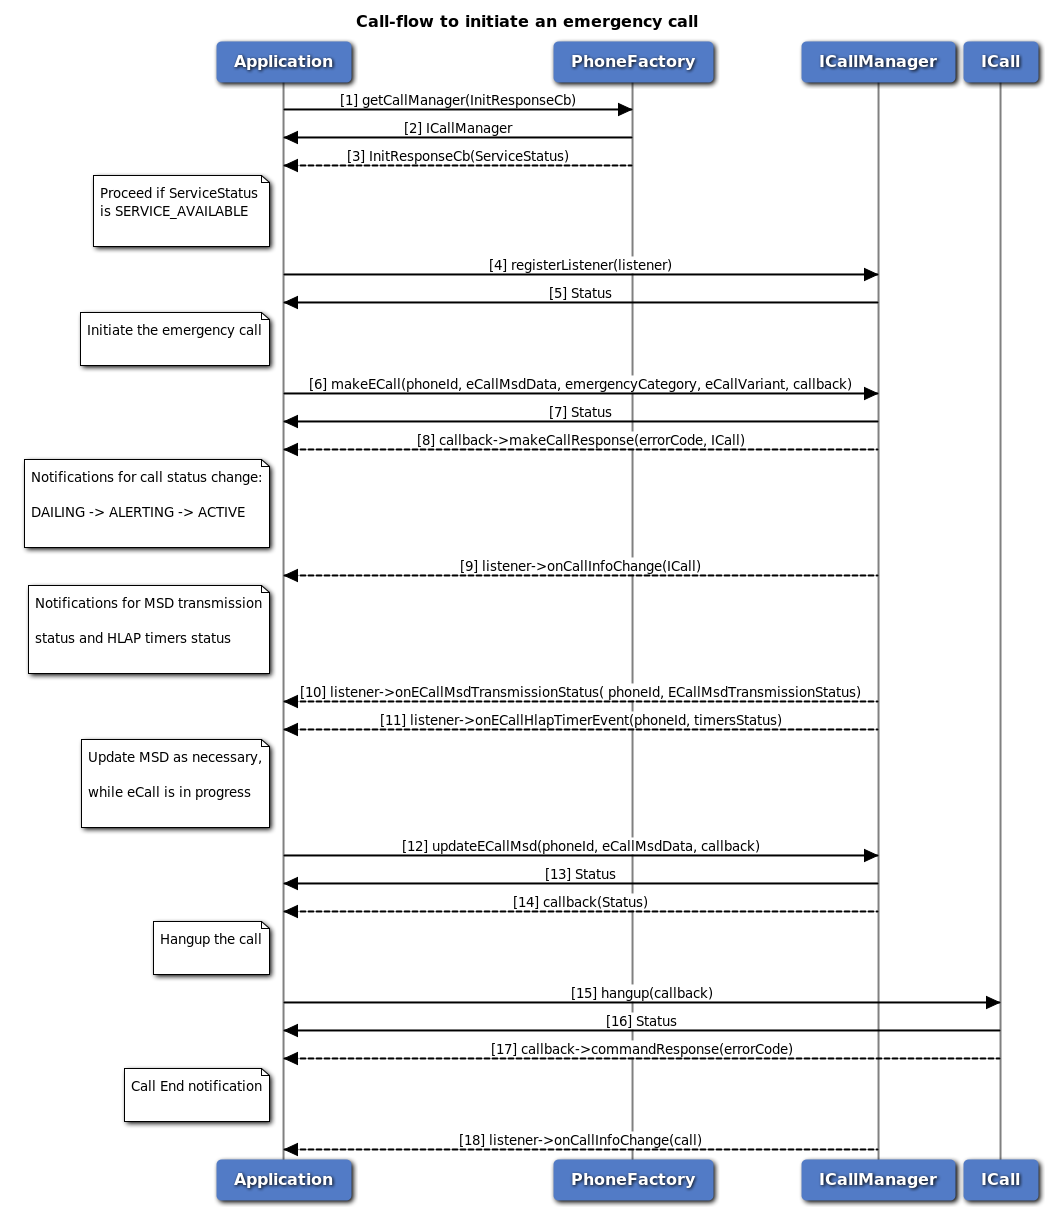
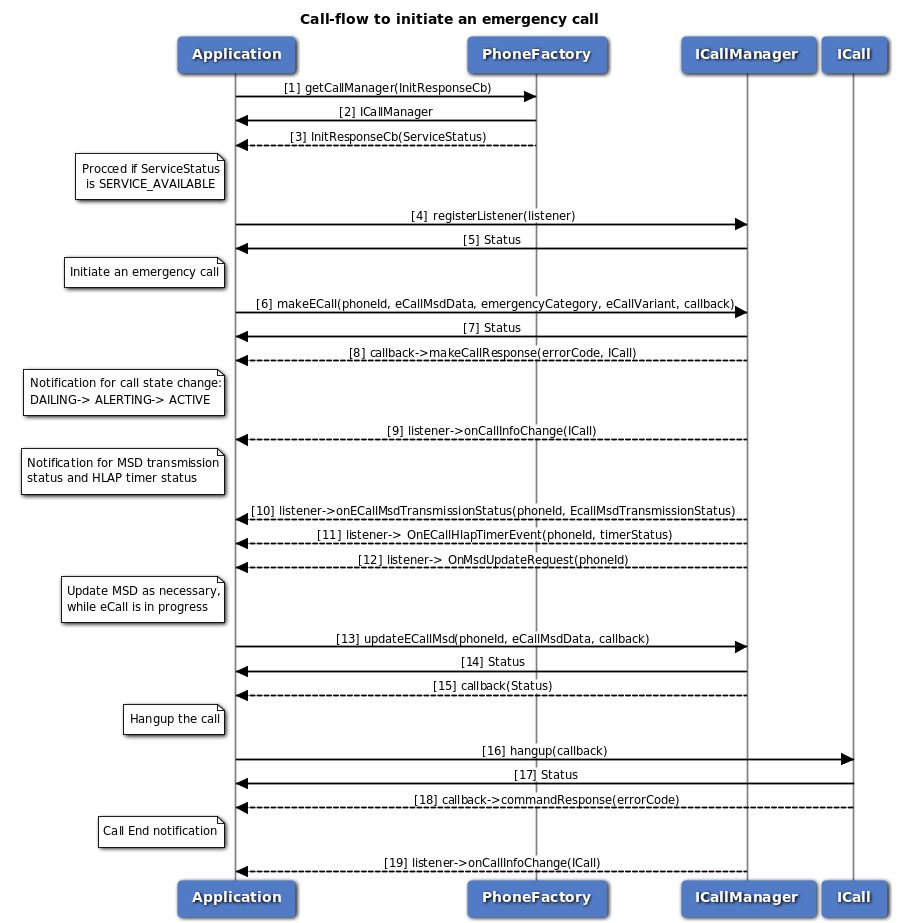
tel: Update documentation for CallManger API changes
- Update new initialization of CallManager in test app.
- Update document and images for new initialization of CallManager
  for ecall msd API update.

CRs-Fixed: 3609777

Changed region(s): [[0.0, 0.0, 0.9978, 1.0]]

diff --git a/apps/tests/telsdk_console_app/Call/MyCallListener.cpp b/apps/tests/telsdk_console_app/Call/MyCallListener.cpp
@@ -392,9 +392,17 @@ void MyHangupCallback::hangupWaitingOrBgResponse(telux::common::ErrorCode error)
 
 int MyCallListener::getCallsOnSlot(SlotId slotId) {
     int numCalls = 0;
+    std::promise<ServiceStatus> callMgrprom;
     auto &phoneFactory = telux::tel::PhoneFactory::getInstance();
-    auto callManager = phoneFactory.getCallManager();
-    if (callManager) {
+    auto callManager = phoneFactory.getCallManager([&](ServiceStatus status) {
+       callMgrprom.set_value(status);
+    });
+    if (!callManager) {
+       std::cout << "ERROR - Failed to get CallManager instance \n";
+       return false;
+    }
+    ServiceStatus callMgrsubSystemStatus = callMgrprom.get_future().get();
+    if (callMgrsubSystemStatus == ServiceStatus::SERVICE_AVAILABLE) {
         std::vector<std::shared_ptr<telux::tel::ICall>> inProgressCalls
           = callManager->getInProgressCalls();
         for(auto callIterator = std::begin(inProgressCalls);
@@ -404,7 +412,8 @@ int MyCallListener::getCallsOnSlot(SlotId slotId) {
             }
         }
     } else {
-        std::cout << "ERROR - CallManager is NULL, failed to get in progress calls on slot Id:"
+        std::cout << "ERROR - CallManager subsystem is not ready"
+                  << ", failed to get in progress calls on slot Id:"
                   << static_cast<int>(slotId) << std::endl;
     }
     return numCalls;

diff --git a/apps/tests/telsdk_console_app/ECall/MyECallListener.cpp b/apps/tests/telsdk_console_app/ECall/MyECallListener.cpp
@@ -317,9 +317,17 @@ std::string MyECallListener::getCurrentTime() {
 
 int MyECallListener::getCallsOnSlot(SlotId slotId) {
     int numCalls = 0;
+    std::promise<ServiceStatus> callMgrprom;
     auto &phoneFactory = telux::tel::PhoneFactory::getInstance();
-    auto callManager = phoneFactory.getCallManager();
-    if (callManager) {
+    auto callManager = phoneFactory.getCallManager([&](ServiceStatus status) {
+       callMgrprom.set_value(status);
+    });
+    if (!callManager) {
+       std::cout << "ERROR - Failed to get CallManager instance \n";
+       return false;
+    }
+    ServiceStatus callMgrsubSystemStatus = callMgrprom.get_future().get();
+    if (callMgrsubSystemStatus == ServiceStatus::SERVICE_AVAILABLE) {
         std::vector<std::shared_ptr<telux::tel::ICall>> inProgressCalls
           = callManager->getInProgressCalls();
         for(auto callIterator = std::begin(inProgressCalls);
@@ -329,7 +337,8 @@ int MyECallListener::getCallsOnSlot(SlotId slotId) {
             }
         }
     } else {
-        std::cout << "ERROR - CallManager is NULL, failed to get in progress calls on slot Id: "
+        std::cout << "ERROR - CallManager subsysem is not ready"
+                  << ", failed to get in progress calls on slot Id: "
                   << static_cast<int>(slotId) << std::endl;
     }
     return numCalls;

diff --git a/docs/api_samples/phone/make_tps_eCall_over_Ims.md b/docs/api_samples/phone/make_tps_eCall_over_Ims.md
@@ -3,23 +3,40 @@ Make Third Party Service (TPS) eCall over IMS {#make_eCall_Over_Ims}
 
 This sample application demonstrates how to make a TPS eCall over IMS.
 
-### 1. Get the PhoneFactory
+### 1. Implement ResponseCallback interface to receive subsystem initialization status
 
    ~~~~~~{.cpp}
-   auto &phoneFactory = PhoneFactory::getInstance();
-
-
-### 2. Instantiate call manager
-
-   ~~~~~~{.cpp}
-   std::shared_ptr<ICallManager> callManager = phoneFactory.getCallManager();
+   std::promise<telux::common::ServiceStatus> cbProm = std::promise<telux::common::ServiceStatus>();
+   void initResponseCb(telux::common::ServiceStatus status) {
+      if(subSystemsStatus == SERVICE_AVAILABLE) {
+         std::cout << Call Manager subsystem is ready << std::endl;
+      } else if(subSystemsStatus == SERVICE_FAILED) {
+         std::cout << Call Manager subsystem initialization failed << std::endl;
+      }
+      cbProm.set_value(status);
+   }
    ~~~~~~
 
 
-### 3. Initialize phoneId with default value
+### 2. Get the PhoneFactory and Call Manager instance
 
    ~~~~~~{.cpp}
-   int phoneId = DEFAULT_PHONE_ID;
+   auto &phoneFactory = PhoneFactory::getInstance();
+   auto callManager = phoneFactory.getCallManager(initResponseCb);
+   if(callManager == NULL) {
+      std::cout << " Failed to get Call Manager instance" << std::endl;
+      return -1;
+   }
+   ~~~~~~
+
+
+### 3. Wait for Call Manager subsystem to be ready
+   ~~~~~~{.cpp}
+   telux::common::ServiceStatus status = cbProm.get_future().get();
+   if(status != SERVICE_AVAILABLE) {
+      std::cout << Unable to initialize Call Manager subsystem << std::endl;
+      return -1;
+   }
    ~~~~~~
 
 
